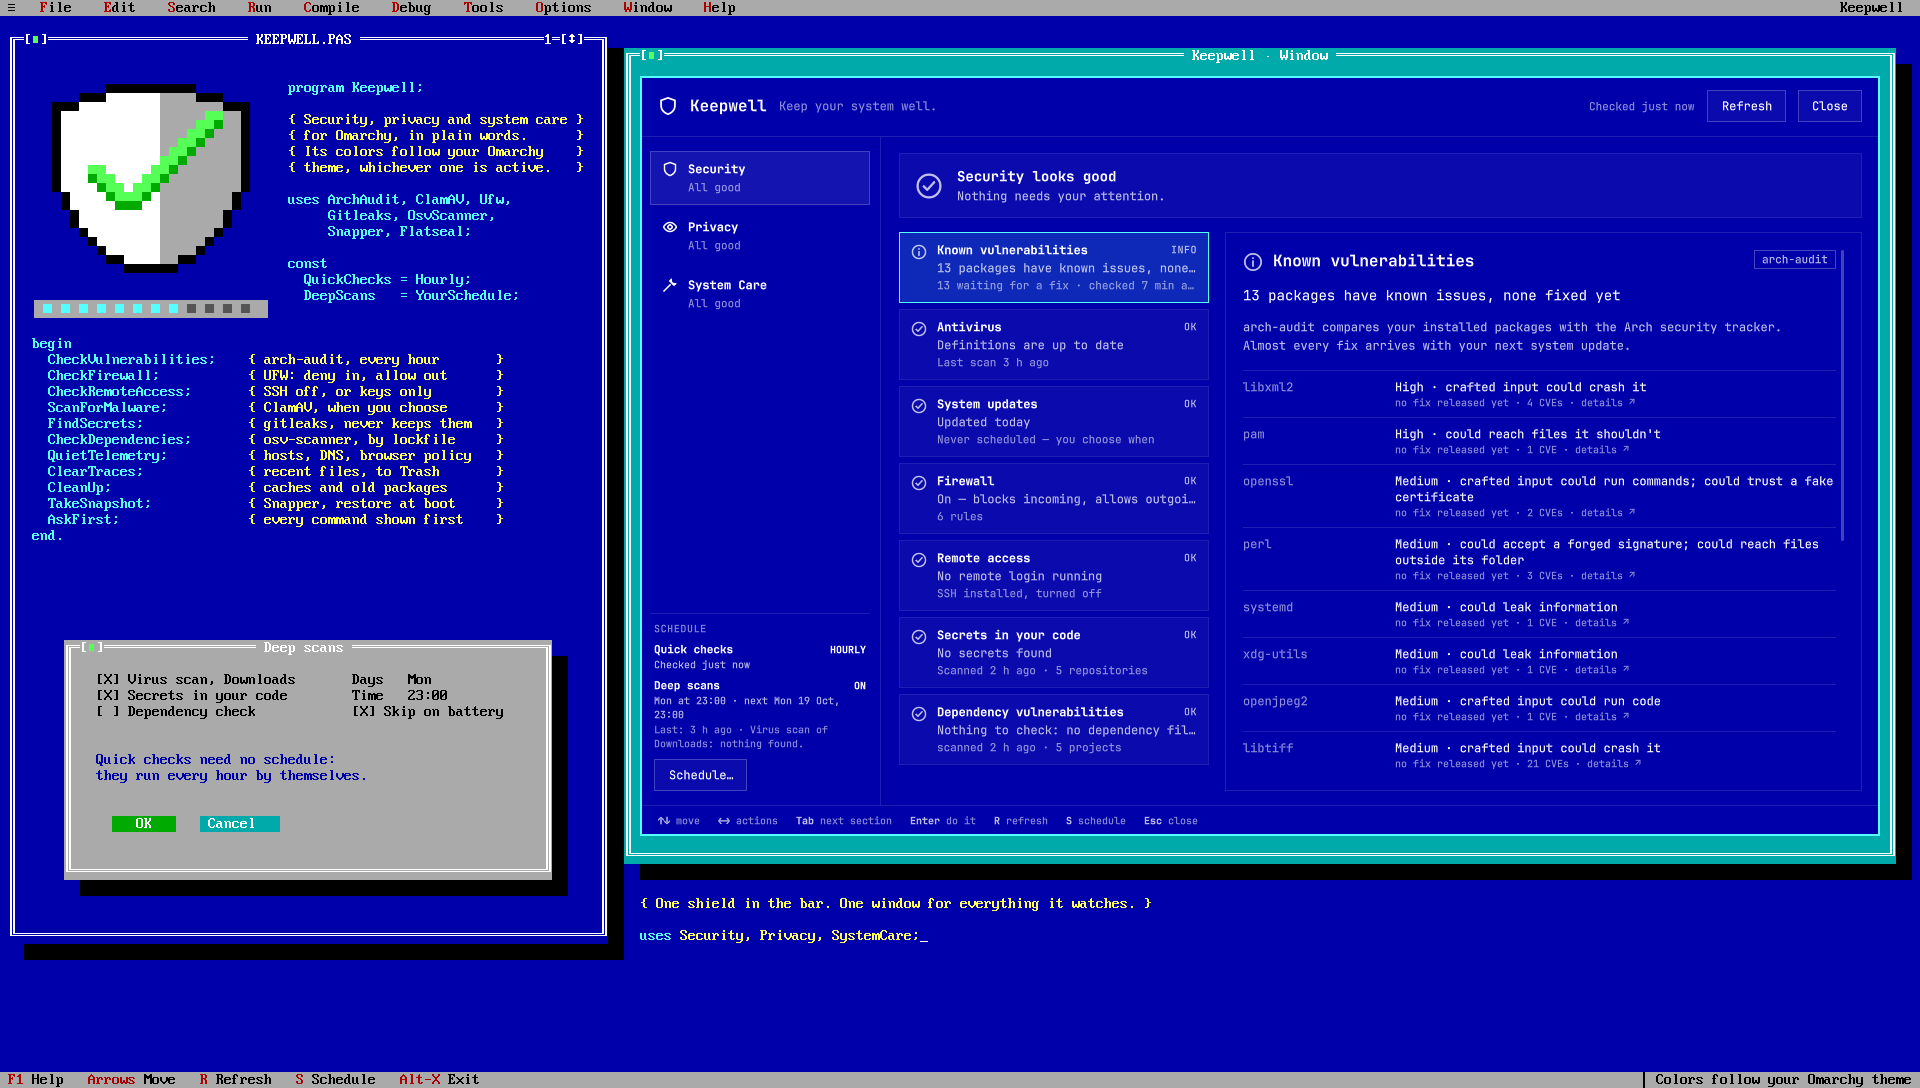
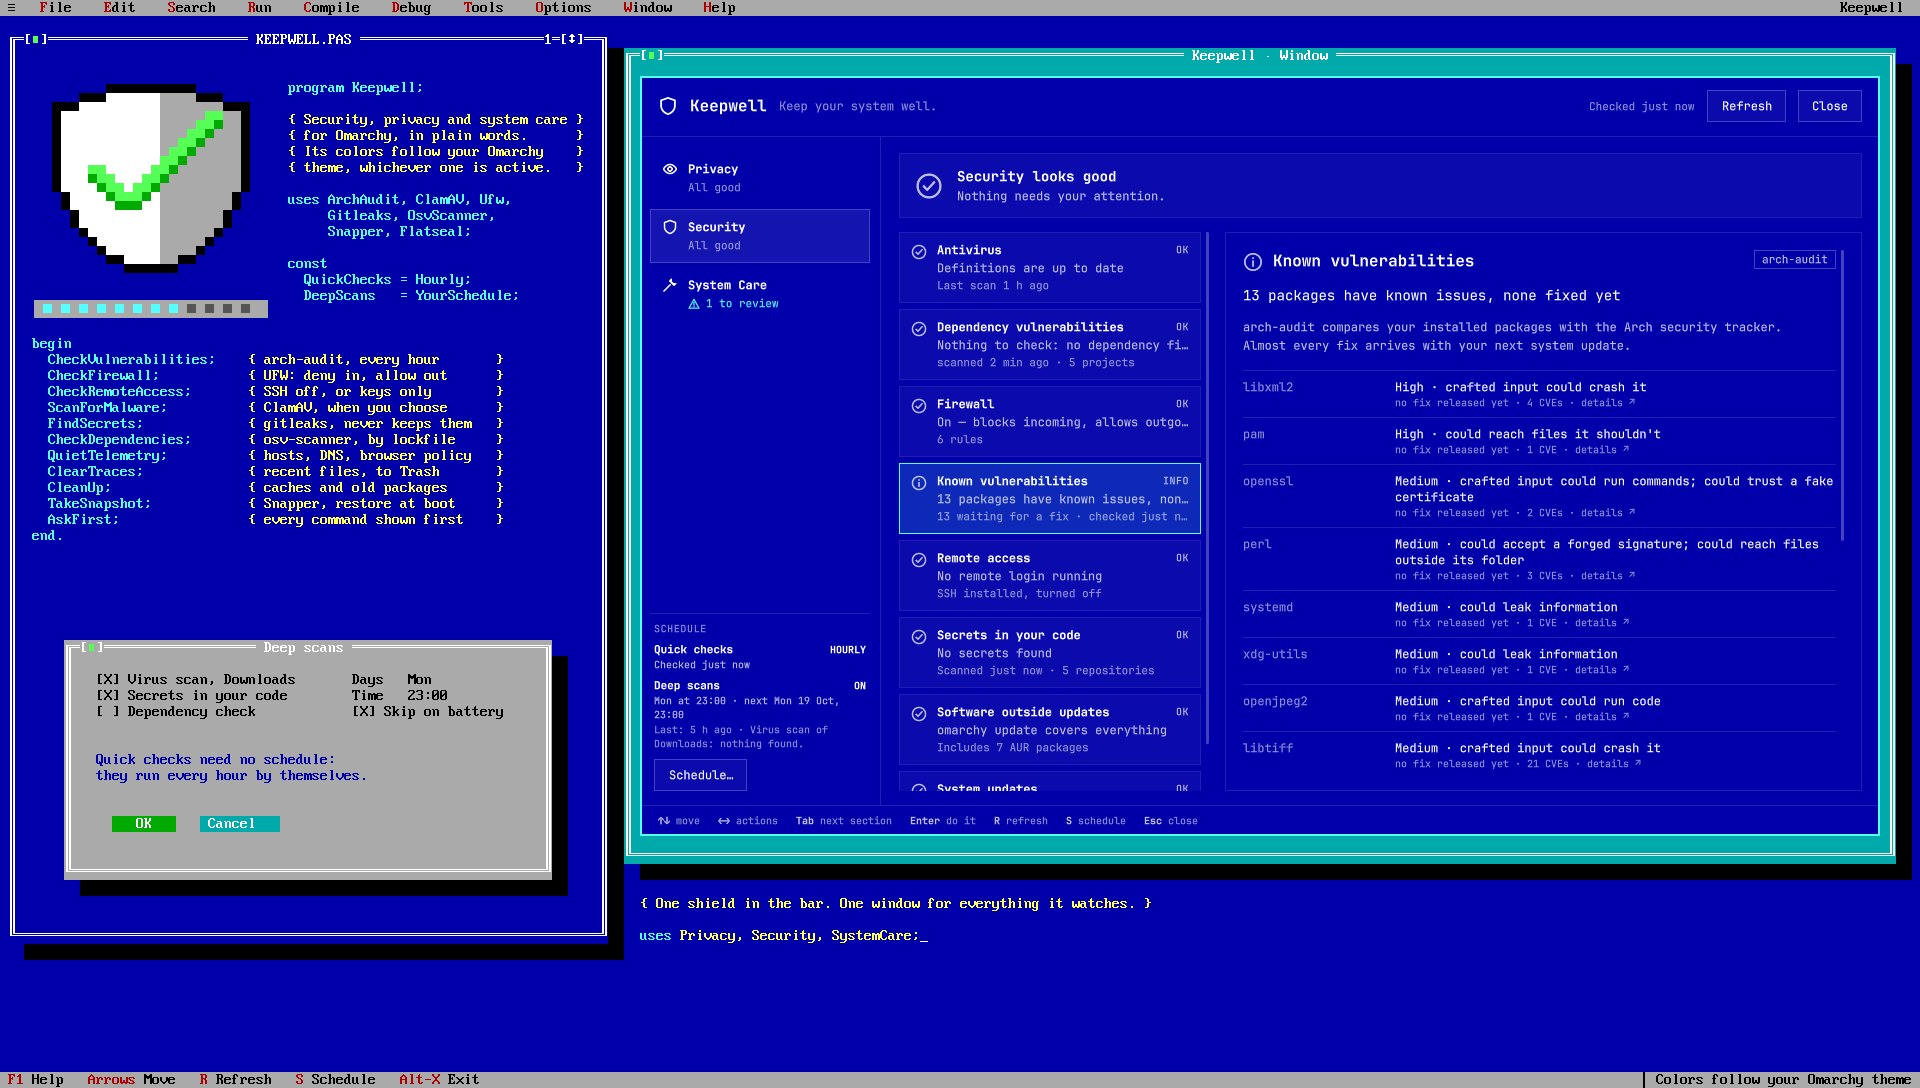
Sort sections and checks alphabetically; fix lost queued refreshes
Sections are now Privacy, Security, System Care, and the checks in each
are sorted by title.

A refresh requested while a check was running was queued, then re-run
from inside onFinished, where the process still counts as running, so it
was queued again and waited for some later request. A scan that finished
during the scan button's own check showed its result only after the
next refresh. The queued run now starts on the next turn of the event
loop.

The "you'll get a notification" footer now gives way to what the scan
found once a check shows it has ended, and on a narrow screen the key
hints make room for a notice. Preview shows the new order.

diff --git a/Window.qml b/Window.qml
@@ -457,25 +457,35 @@ Item {
           // ---------------- footer ----------------
           Rectangle { Layout.fillWidth: true; height: 1; color: Tokens.line }
           RowLayout {
+            id: footerRow
             Layout.fillWidth: true
             Layout.margins: Tokens.sp(8)
             Layout.leftMargin: Tokens.sp(18)
             Layout.rightMargin: Tokens.sp(18)
             spacing: Tokens.sp(18)
 
-            Repeater {
-              model: [["↑↓", "move"], ["←→", "actions"], ["Tab", "next section"], ["Enter", "do it"], ["R", "refresh"], ["S", "schedule"]]
-                .concat(root.schedules.missed && root.schedules.missed.length ? [["M", "run missed"], ["D", "dismiss"]] : [])
-                .concat([["Esc", "close"]])
-              delegate: Row {
-                required property var modelData
-                spacing: Tokens.sp(6)
-                KText { text: modelData[0]; font.pixelSize: Tokens.caption; font.bold: true; color: Tokens.fg2 }
-                KText { text: modelData[1]; font.pixelSize: Tokens.caption; color: Tokens.fg3 }
+            // On a narrow screen the key hints make way for a notice.
+            Row {
+              id: hints
+              spacing: Tokens.sp(18)
+              visible: root.notice === "" || footerRow.width >= hints.implicitWidth + noticeText.implicitWidth + Tokens.sp(36)
+              Repeater {
+                model: [["↑↓", "move"], ["←→", "actions"], ["Tab", "next section"], ["Enter", "do it"], ["R", "refresh"], ["S", "schedule"]]
+                  .concat(root.schedules.missed && root.schedules.missed.length ? [["M", "run missed"], ["D", "dismiss"]] : [])
+                  .concat([["Esc", "close"]])
+                delegate: Row {
+                  required property var modelData
+                  spacing: Tokens.sp(6)
+                  KText { text: modelData[0]; font.pixelSize: Tokens.caption; font.bold: true; color: Tokens.fg2 }
+                  KText { text: modelData[1]; font.pixelSize: Tokens.caption; color: Tokens.fg3 }
+                }
               }
             }
             Item { Layout.fillWidth: true }
             KText {
+              id: noticeText
+              Layout.maximumWidth: footerRow.width
+              elide: Text.ElideRight
               text: root.notice
               font.pixelSize: Tokens.caption
               color: root.notice !== "" ? Tokens.fg2 : Tokens.fg3

diff --git a/Service.qml b/Service.qml
@@ -130,11 +130,15 @@ Scope {
         root.say(root.reportAfterCheck.prefix + (c ? c.title + ": " + c.status + "." : ""))
         root.reportAfterCheck = null
       }
+      if (!root.failed && root.scanNotice && !root.queued) root.endScanNotice()
+      // The queued run starts on the next turn of the event loop: inside
+      // onFinished the process still counts as running, and check() would
+      // only queue it again, leaving it to wait for some later request.
       if (root.queued) {
         var net = root.queuedNetwork
         root.queued = false
         root.queuedNetwork = false
-        root.check(net)
+        Qt.callLater(root.check, net)
       }
     }
   }
@@ -687,9 +691,27 @@ Scope {
   function startJob(args, started) {
     if (jobber.running) return
     jobMessage = started
+    jobKind = args[0]
     jobber.start(python.concat([sourceDir + "/bin/keepwell-run"], args))
   }
   property string jobMessage: ""
+  property string jobKind: ""
+
+  // A background scan's "you'll get a notification" stays in the footer
+  // until a check shows that scan has ended; then the footer says what it found.
+  property var scanNotice: null       // { checkId, flag } while one is running
+  readonly property var scanKinds: ({
+    scan: { checkId: "av", probe: "antivirus", flag: "scanning" },
+    leaks: { checkId: "leaks", probe: "tools", flag: "leaksScanning" },
+    osv: { checkId: "deps", probe: "tools", flag: "osvScanning" }
+  })
+  function endScanNotice() {
+    var probe = doc && doc.probes ? doc.probes[scanNotice.probe] : null
+    if (!probe || probe[scanNotice.flag] === true) return
+    var c = findCheck(scanNotice.checkId)
+    scanNotice = null
+    say(c ? "Scan finished — " + c.title + ": " + c.status + "." : "Scan finished.")
+  }
 
   BoundedProcess {
     id: jobber
@@ -703,6 +725,7 @@ Scope {
                  ? "That folder can't be scanned." : "Couldn't start the scan.")
       else if (!d) root.say("Something went wrong starting that.")
       else if (root.jobMessage !== "") root.say(root.jobMessage)
+      root.scanNotice = d && d.started === true ? root.scanKinds[root.jobKind] || null : null
       root.check(false)
     }
   }

diff --git a/model/Present.js b/model/Present.js
@@ -108,9 +108,9 @@ var CATALOG = {
 }
 
 var LAYOUT = [
-  { id: "security", name: "Security", checks: ["audit", "av", "upd", "outside", "fw", "remote", "leaks", "deps"] },
-  { id: "privacy", name: "Privacy", checks: ["browser", "netpriv", "apps", "cam", "traces", "perms"] },
-  { id: "care", name: "System Care", checks: ["clean", "unclaimed", "snap", "disk", "failed"] }
+  { id: "privacy", name: "Privacy", checks: ["traces", "perms", "browser", "cam", "apps", "netpriv"] },
+  { id: "security", name: "Security", checks: ["av", "deps", "fw", "audit", "remote", "leaks", "outside", "upd"] },
+  { id: "care", name: "System Care", checks: ["clean", "disk", "failed", "snap", "unclaimed"] }
 ]
 
 // ---------------------------------------------------------------- security
@@ -428,7 +428,7 @@ function deps(tools, now) {
       : !last.scanned ? "No projects found in that folder"
       : last.noLockfiles >= last.scanned ? "Nothing to check: no dependency files in " + plural(last.scanned, "project", "projects")
       : "No known vulnerabilities in your projects' dependencies",
-    meta: (fixable.length ? fixable.length + " fixable by updating · " : "") + "scanned " + ago(last.at, now) + " · " + plural(last.scanned, "project", "projects"),
+    meta: (fixable.length ? fixable.length + " fixable by updating · scanned " : "Scanned ") + ago(last.at, now) + " · " + plural(last.scanned, "project", "projects"),
     facts: facts,
     note: f.length ? "Each row is a library one of your projects uses, the worst problem it has, and the version that fixes it. Update it in that project (for example npm update, cargo update, go get -u, pip install -U), then scan again. Click a row for the advisory on osv.dev. Keepwell never changes your projects. " + network : network,
     actions: [{ label: "Scan again", primary: fixable.length > 0, rescan: "osv", folder: last.folder }]

diff --git a/docs/keepwell-spec.md b/docs/keepwell-spec.md
@@ -234,3 +234,4 @@ Every tile helper is a bounded process: argv-array commands only (no shell-strin
 13. **Always-on checks and scheduled deep scans (supersedes 6, 11)**: the quick checks (every check except the deep scans, including arch-audit) run by themselves at login and hourly while logged in, and notify once when a check newly needs attention — the one deliberate exception to "nothing runs in the background unless you turn it on", stated in the UI and README. arch-audit's ~900 KB download is skipped hourly on a metered connection; when the tracker can't be reached the last result stays, marked. The deep scans (virus Downloads/home, secrets, dependencies) have one opt-in schedule (`keepwell-deep.timer`). A scheduled run that would start more than 10 minutes late — computer off, suspended or hibernating — is recorded as missed (shield, one notification, a strip with Run now/Dismiss), never run late. One summary notification per run; scans skipped on battery by default.
 14. **Remote access (Security) and Failed services (System Care)** (2026-10-19). Remote access reads whether an SSH server is installed, running or enabled, and its effective password and root-login settings (`sshd_config` plus drop-ins, first value wins); passwords on is Review, root by password Act now, keys only or no server OK. Actions: turn SSH off, or allow keys only through a marked drop-in that is tested with `sshd -t` and removed if the test fails — offered only once `authorized_keys` holds a key, so nobody locks themselves out. Failed services lists failed system and user units as Info, never a problem (some fail harmlessly on every boot); actions show their status in a terminal or clear the list (`reset-failed`), never restart anything.
 15. **Software outside updates (Security)** (2026-10-19). omarchy update covers the official repositories, the AUR (`yay -Sua`) and mise; this check lists what it misses: compiled programs and AppImages installed by hand, foreign packages the AUR no longer has (so yay can't update them), `cargo install`/`go install`/pipx/uv tools, and Flatpak apps. Info, except Review when a hand-installed program hides a packaged one of the same name. Telling an AUR package from a self-built one needs the AUR's answer, so this adds Keepwell's own network request: one capped HTTPS request to the AUR RPC carrying only the foreign package names, with the hourly checks at most every six hours and never on a metered connection; the answer is cached in `aur.json`. One action: Update Flatpak apps.
+16. **Alphabetical order** (2026-10-19): the sections (Privacy, Security, System Care) and the checks within each are sorted by name, so a check is always where you'd look for it. The tabs keep their names; §2–5's order no longer applies.

diff --git a/README.md b/README.md
@@ -20,7 +20,7 @@ hands you to it. The full design is in [docs/keepwell-spec.md](docs/keepwell-spe
 - A shield in the bar: a plain outline when all is well, a dot when something
   wants a look, an exclamation mark when something needs action.
 - Click it (or run `omarchy-shell keepwell toggle`) to open the window:
-  Security, Privacy and System Care in a rail on the left, a one-line summary
+  Privacy, Security and System Care in a rail on the left, a one-line summary
   of the section, the list of checks, and the selected check explained.
 
 Status is shown by shape and word, never by colour alone, so it reads the same
